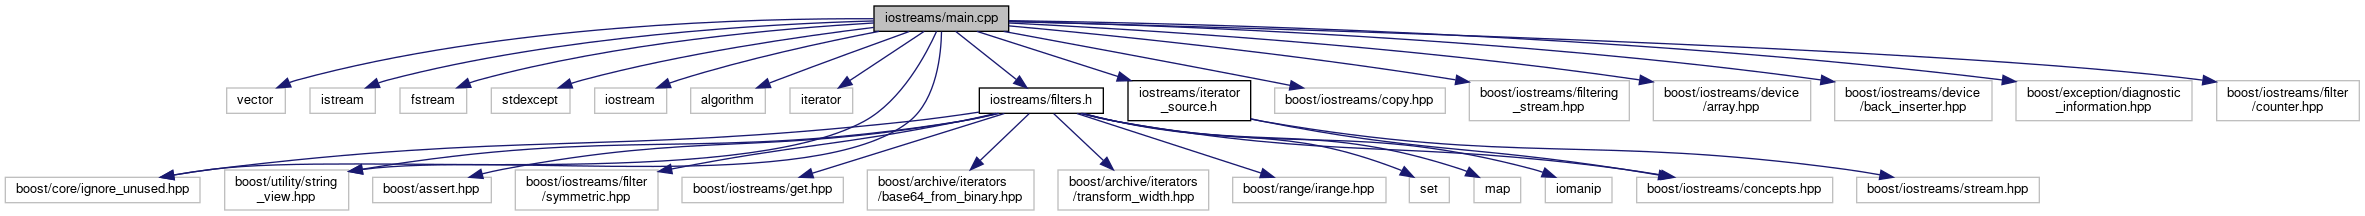
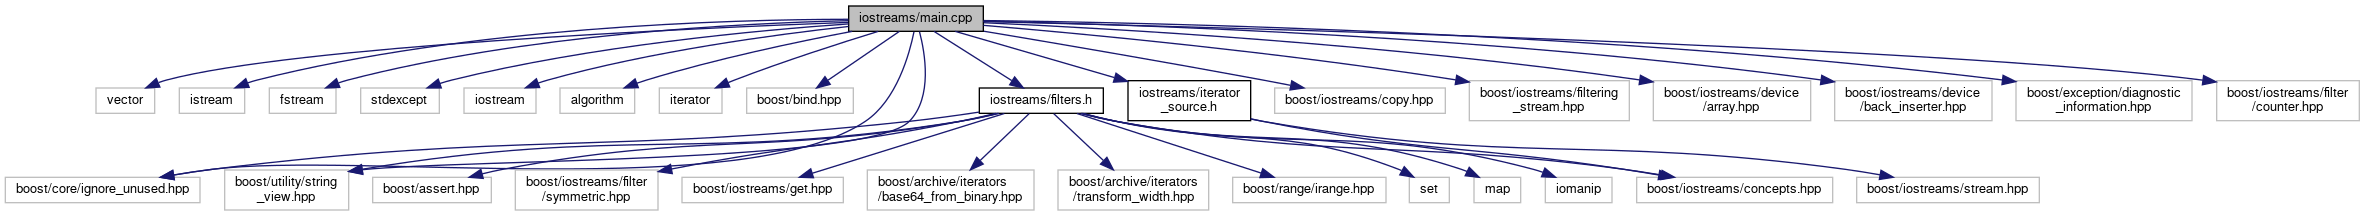
Auto commit

diff --git a/iostreams_2main_8cpp.html b/iostreams_2main_8cpp.html
@@ -81,6 +81,7 @@ $(function() {
 <code>#include &lt;iostream&gt;</code><br />
 <code>#include &lt;algorithm&gt;</code><br />
 <code>#include &lt;iterator&gt;</code><br />
+<code>#include &lt;boost/bind.hpp&gt;</code><br />
 <code>#include &lt;boost/core/ignore_unused.hpp&gt;</code><br />
 <code>#include &lt;boost/iostreams/copy.hpp&gt;</code><br />
 <code>#include &lt;boost/iostreams/filtering_stream.hpp&gt;</code><br />
@@ -96,14 +97,15 @@ $(function() {
 <div class="dyncontent">
 <div class="center"><img src="iostreams_2main_8cpp__incl.png" border="0" usemap="#aiostreams_2main_8cpp" alt=""/></div>
 <map name="aiostreams_2main_8cpp" id="aiostreams_2main_8cpp">
-<area shape="rect" title=" " alt="" coords="874,5,1009,32"/>
-<area shape="rect" title=" " alt="" coords="227,87,285,114"/>
-<area shape="rect" title=" " alt="" coords="310,87,375,114"/>
-<area shape="rect" title=" " alt="" coords="400,87,467,114"/>
-<area shape="rect" title=" " alt="" coords="491,87,570,114"/>
-<area shape="rect" title=" " alt="" coords="595,87,667,114"/>
-<area shape="rect" title=" " alt="" coords="691,87,765,114"/>
-<area shape="rect" title=" " alt="" coords="790,87,853,114"/>
+<area shape="rect" title=" " alt="" coords="849,5,983,32"/>
+<area shape="rect" title=" " alt="" coords="96,87,155,114"/>
+<area shape="rect" title=" " alt="" coords="179,87,245,114"/>
+<area shape="rect" title=" " alt="" coords="269,87,336,114"/>
+<area shape="rect" title=" " alt="" coords="361,87,439,114"/>
+<area shape="rect" title=" " alt="" coords="464,87,536,114"/>
+<area shape="rect" title=" " alt="" coords="560,87,635,114"/>
+<area shape="rect" title=" " alt="" coords="659,87,722,114"/>
+<area shape="rect" title=" " alt="" coords="747,87,853,114"/>
 <area shape="rect" title=" " alt="" coords="5,177,200,203"/>
 <area shape="rect" title=" " alt="" coords="1275,87,1445,114"/>
 <area shape="rect" title=" " alt="" coords="1469,80,1629,121"/>
@@ -171,6 +173,10 @@ void&#160;</td><td class="memItemRight" valign="bottom"><b>copy_by_boost_iostrea
 <tr class="memitem:ae6be72c0500837f3d2312ab53e3b3f10"><td class="memItemLeft" align="right" valign="top"><a id="ae6be72c0500837f3d2312ab53e3b3f10" name="ae6be72c0500837f3d2312ab53e3b3f10"></a>
 void&#160;</td><td class="memItemRight" valign="bottom"><b>test_readers</b> ()</td></tr>
 <tr class="separator:ae6be72c0500837f3d2312ab53e3b3f10"><td class="memSeparator" colspan="2">&#160;</td></tr>
+<tr class="memitem:a301439299be9075bcc0550a4fea0a4df"><td class="memTemplParams" colspan="2"><a id="a301439299be9075bcc0550a4fea0a4df" name="a301439299be9075bcc0550a4fea0a4df"></a>
+template&lt;typename DstCont &gt; </td></tr>
+<tr class="memitem:a301439299be9075bcc0550a4fea0a4df"><td class="memTemplItemLeft" align="right" valign="top">DstCont&#160;</td><td class="memTemplItemRight" valign="bottom"><b>getSequence</b> ()</td></tr>
+<tr class="separator:a301439299be9075bcc0550a4fea0a4df"><td class="memSeparator" colspan="2">&#160;</td></tr>
 <tr class="memitem:a3c04138a5bfe5d72780bb7e82a18e627"><td class="memItemLeft" align="right" valign="top"><a id="a3c04138a5bfe5d72780bb7e82a18e627" name="a3c04138a5bfe5d72780bb7e82a18e627"></a>
 int&#160;</td><td class="memItemRight" valign="bottom"><b>main</b> (int argc, char **argv)</td></tr>
 <tr class="separator:a3c04138a5bfe5d72780bb7e82a18e627"><td class="memSeparator" colspan="2">&#160;</td></tr>
